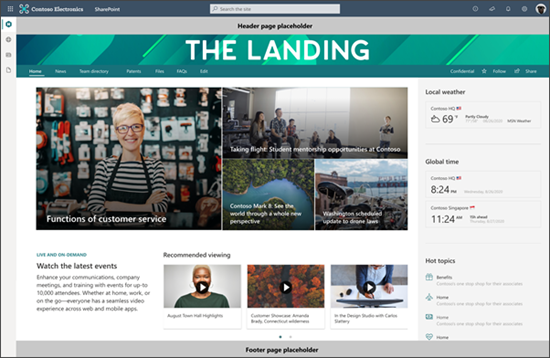
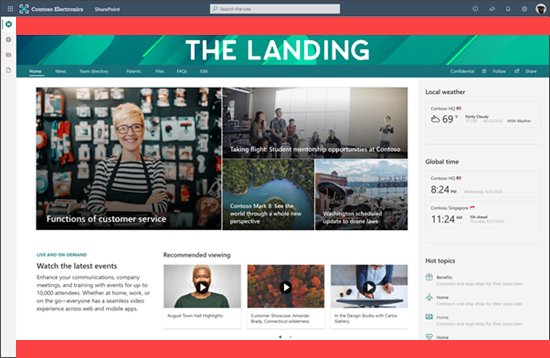
Edit to image

Changed region(s): [[0.0309, 0.0307, 1.0, 0.1229], [0.0309, 0.9525, 1.0, 1.0]]

diff --git a/SharePoint/SharePointOnline/sharepoint-app-bar.md b/SharePoint/SharePointOnline/sharepoint-app-bar.md
@@ -181,7 +181,7 @@ If you are creating a [home site](https://docs.microsoft.com/sharepoint/home-sit
 ## Understand how this may impact page customizations
 
 The SharePoint app bar may impact current page customizations, specifically those positioned to the left of your page. 
-For organization using [page placeholders](https://docs.microsoft.com/sharepoint/dev/spfx/extensions/get-started/using-page-placeholder-with-extensions), the SharePoint app bar will cover parts of both the header and footer page placeholder. In the following image, the place holder footprint is in grey:
+For organization using [page placeholders](https://docs.microsoft.com/sharepoint/dev/spfx/extensions/get-started/using-page-placeholder-with-extensions), the SharePoint app bar will cover parts of both the header and footer page placeholder. In the following image, the place holder footprint is in red:
 
 ![Image of a home site with customizations](media/app-bar-overlap.png)
 
